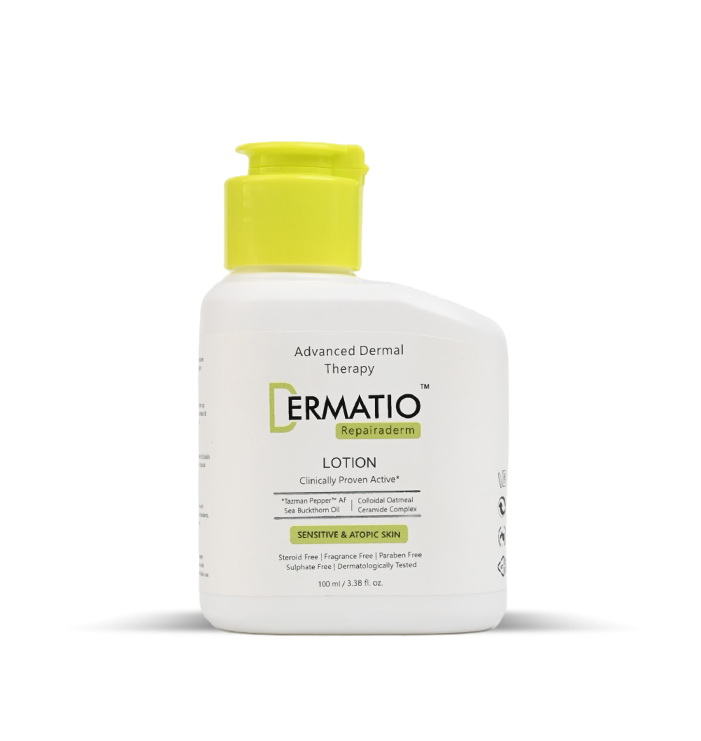
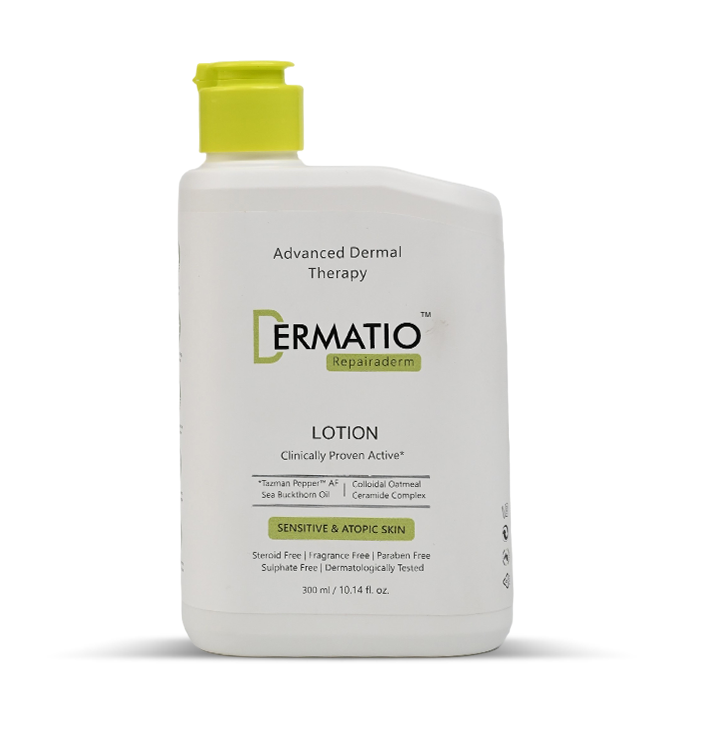
Cart Updated

Changed region(s): [[0.1498, 0.0621, 0.8388, 0.9001]]

diff --git a/client/src/data/productsData.js b/client/src/data/productsData.js
@@ -8,7 +8,10 @@ export const productsData = [
       { size: "100 ml", price: 799 },
       { size: "300 ml", price: 1799 },
     ],
-    image: "/images/products/1-main-100ml.png",
+    image: {
+      "100 ml": "/images/products/1-main-100ml.png",
+      "300 ml": "/images/products/1-main-300ml.png",
+    },
     galleryImages: {
       "100 ml": [
         "/images/products/1-1-100ml.jpg",
@@ -57,7 +60,10 @@ export const productsData = [
       { size: "100 ml", price: 799 },
       { size: "300 ml", price: 1799 },
     ],
-    image: "/images/products/1-main-100ml.png",
+    image: {
+      "100 ml": "/images/products/1-main-100ml.png",
+      "300 ml": "/images/products/1-main-300ml.png",
+    },
     galleryImages: {
       "100 ml": [
         "/images/products/1-1-100ml.jpg",
@@ -106,7 +112,10 @@ export const productsData = [
       { size: "100 ml", price: 799 },
       { size: "300 ml", price: 1799 },
     ],
-    image: "/images/products/1-main-100ml.png",
+    image: {
+      "100 ml": "/images/products/1-main-100ml.png",
+      "300 ml": "/images/products/1-main-300ml.png",
+    },
     galleryImages: {
       "100 ml": [
         "/images/products/1-1-100ml.jpg",

diff --git a/client/src/components/product-details/ProductGallery.jsx b/client/src/components/product-details/ProductGallery.jsx
@@ -185,7 +185,14 @@ const ProductGallery = () => {
                             rounded-[10px] text-center
                             text-[1.2rem] sm:text-[1rem] lg:text-[1.05rem] xl:text-[1.2rem] 2xl:text-[1.3rem]
                         " onClick={() => {
-                                addToCart(product, selectedSize);
+                                // addToCart(product, selectedSize);
+                                addToCart(
+                                    {
+                                        ...product,
+                                        selectedImage: product.image[selectedSize.size]
+                                    },
+                                    selectedSize
+                                );
                                 navigate("/cart");
                             }}>
                             Add to Cart

diff --git a/client/src/components/cart/CartProductCard.jsx b/client/src/components/cart/CartProductCard.jsx
@@ -22,7 +22,7 @@ const CartProductCard = ({ item }) => {
                     shadow-[-2.4px_2.4px_3.2px_rgba(0,0,0,0.25)]
                     flex justify-center items-center
                 ">
-                    <img src={item.image} alt={item.name} loading="lazy" className="w-full" />
+                    <img src={item.selectedImage} alt={item.name} loading="lazy" className="w-full" />
                 </div>
                 {/* Content */}
                 <div className="

diff --git a/client/src/components/products/ProductCard.jsx b/client/src/components/products/ProductCard.jsx
@@ -12,7 +12,7 @@ const ProductCard = ({ product }) => {
                 shadow-[-2.4px_2.4px_3.2px_rgba(0,0,0,0.25)]
             ">
                 <img
-                    src={product.image}
+                    src={product.image[product.sizes[0].size]}
                     alt={product.name}
                     loading="lazy"
                     className="w-full group-hover:scale-[1.03] transition duration-300"
